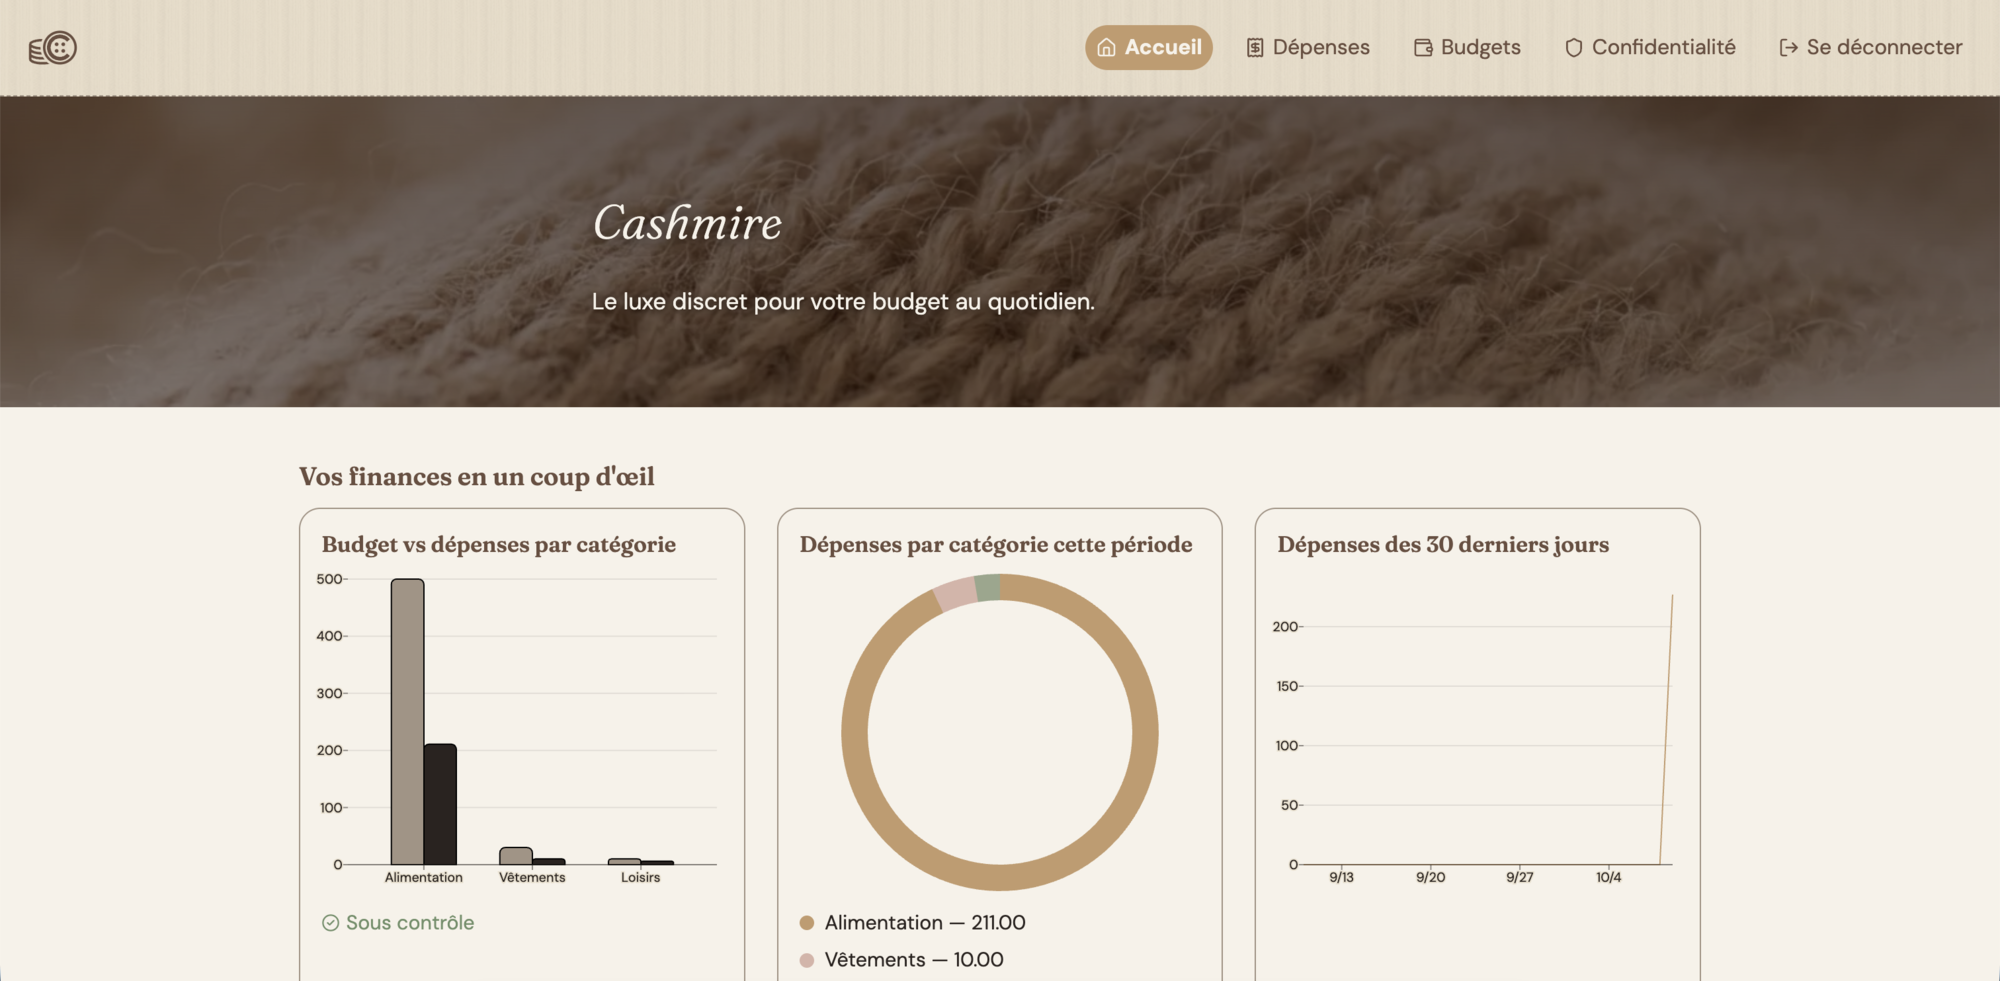
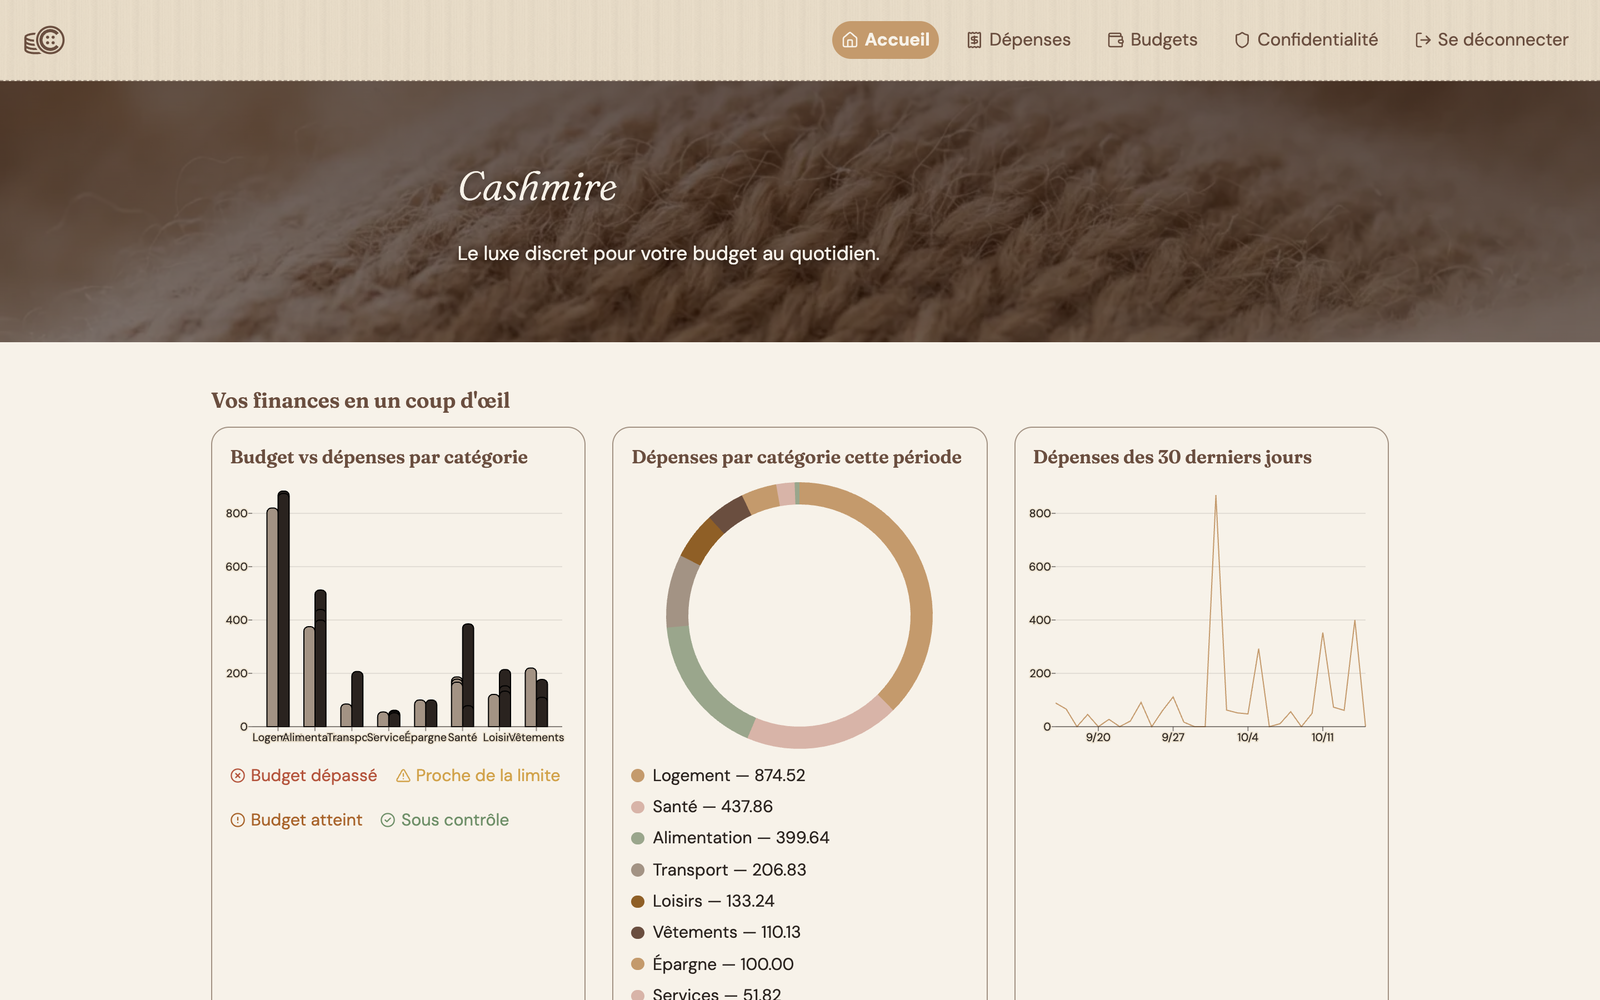
style(landing): rebuild landing page with fresh screenshots

diff --git a/landing-page/index.html b/landing-page/index.html
@@ -10,100 +10,93 @@
 <link rel="apple-touch-icon" href="./favicon.svg" />
 <meta name="theme-color" content="#f7f2e9" />
 <style>
-:root{--bg:#f7f2e9;--surface:#fbf8f1;--text:#2a231f;--muted:#6b5a49;--rule:#d9ccb4;--accent:#8f5f26;--accent-ink:#ffffff;--head:#4a3427;
---sans:Inter,-apple-system,BlinkMacSystemFont,"Segoe UI",Roboto,Helvetica,Arial,sans-serif;--serif:"Iowan Old Style","Palatino Linotype",Palatino,Georgia,serif;color-scheme:light}
+:root{--bg:#f7f2e9;--surface:#efe7d6;--card:#fbf8f1;--text:#2a231f;--muted:#7a6550;--border:#d9ccb4;--heading:#5a3f2f;--accent:#8f5f26;--cta-text:#f7f2e9;--ok:#4f7a49;--wip:#8a6a1f;--glow:rgba(143,95,38,.35);
+--serif:"Fraunces","Iowan Old Style","Palatino Linotype",Georgia,serif;--sans:Inter,-apple-system,BlinkMacSystemFont,"Segoe UI",Roboto,Helvetica,Arial,sans-serif;color-scheme:light}
 *{box-sizing:border-box}html{scroll-behavior:smooth}
-body{margin:0;background:var(--bg);color:var(--text);font:16px/1.65 var(--sans);-webkit-font-smoothing:antialiased}
-a{color:var(--accent)}a:hover{text-underline-offset:3px}
-img{display:block;max-width:100%;height:auto}
-:focus-visible{outline:2px solid var(--accent);outline-offset:3px;border-radius:3px}
-.wrap{max-width:68rem;margin:0 auto;padding:0 24px}
-.bar{border-bottom:1px solid var(--rule)}
-.bar .wrap{display:flex;align-items:center;justify-content:space-between;gap:16px;min-height:60px}
-.brand{display:flex;align-items:center;gap:10px;color:var(--head);font-weight:650;letter-spacing:-.01em;text-decoration:none}
-.brand img{width:26px;height:26px;border-radius:6px}
-.bar nav{display:flex;gap:22px;font-size:.9rem}
-.bar nav a{color:var(--muted);text-decoration:none}.bar nav a:hover{color:var(--head);text-decoration:underline}
-@media(max-width:620px){.bar nav a:not(.back){display:none}}
-.hero{padding:clamp(40px,7vw,88px) 0 clamp(32px,6vw,72px)}
-.hero .wrap{display:grid;gap:clamp(28px,5vw,56px);align-items:center;grid-template-columns:1fr}
-@media(min-width:900px){.hero .wrap{grid-template-columns:minmax(0,.9fr) minmax(0,1.1fr)}}
-.eyebrow{margin:0 0 14px;font-size:.78rem;font-weight:600;letter-spacing:.12em;text-transform:uppercase;color:var(--accent)}
-h1{margin:0;font-family:var(--serif);font-weight:600;font-size:clamp(2.3rem,5.6vw,3.7rem);line-height:1.06;letter-spacing:-.025em;color:var(--head)}
-.lead{margin:20px 0 0;max-width:34rem;font-size:clamp(1.02rem,1.9vw,1.15rem);color:var(--muted)}
-.actions{margin:28px 0 0;display:flex;flex-wrap:wrap;align-items:center;gap:14px 22px}
-.btn{display:inline-block;padding:11px 20px;border-radius:6px;background:var(--accent);color:var(--accent-ink);font-weight:600;font-size:.95rem;text-decoration:none}
+body{margin:0;background:var(--bg);color:var(--text);font-family:var(--sans);line-height:1.65;-webkit-font-smoothing:antialiased}
+a{color:var(--accent)}img{max-width:100%;height:auto;display:block}
+:focus-visible{outline:3px solid var(--accent);outline-offset:3px;border-radius:4px}
+.wrap{max-width:66rem;margin:0 auto;padding:0 20px}
+header.top{padding:18px 0}
+header.top .wrap{display:flex;align-items:center;justify-content:space-between;gap:16px}
+.brand{display:inline-flex;align-items:center;gap:10px;font-family:var(--serif);font-size:1.25rem;font-weight:600;color:var(--heading);text-decoration:none}
+.brand img{width:30px;height:30px;border-radius:7px}
+header.top nav{display:flex;gap:20px;font-size:.92rem}
+header.top nav a{color:var(--muted);text-decoration:none}header.top nav a:hover{color:var(--heading);text-decoration:underline}
+@media(max-width:620px){header.top nav a:not(:last-child){display:none}}
+.hero{padding:clamp(36px,7vw,80px) 0 clamp(24px,5vw,44px);text-align:center}
+.badge{display:inline-flex;align-items:center;gap:8px;padding:6px 14px;border-radius:999px;border:1px solid var(--bc);color:var(--bc);font-size:.82rem;font-weight:600;background:var(--card)}
+.badge i{width:8px;height:8px;border-radius:50%;background:var(--bc)}
+.badge.live i{animation:pulse 1.8s ease-in-out infinite}
+@keyframes pulse{50%{opacity:.3}}
+h1{margin:18px auto 0;max-width:20ch;font-family:var(--serif);font-weight:600;font-size:clamp(2.3rem,7vw,3.9rem);line-height:1.08;letter-spacing:-.02em;color:var(--heading)}
+h1 em{font-style:normal;color:var(--accent)}
+.lead{margin:20px auto 0;max-width:40rem;font-size:clamp(1.02rem,2.3vw,1.18rem);color:var(--muted)}
+.cta-row{margin-top:28px;display:flex;flex-wrap:wrap;gap:12px;justify-content:center}
+.btn{display:inline-block;padding:12px 24px;border-radius:999px;font-weight:600;font-size:.98rem;text-decoration:none;border:1px solid var(--accent)}
+.btn.primary{background:var(--accent);color:var(--cta-text)}
+.btn.ghost{background:transparent;color:var(--heading);border-color:var(--border)}
 .btn:hover{filter:brightness(1.08)}
-.link{font-weight:600;font-size:.95rem}
-.shot{margin:0;border:1px solid var(--rule);border-radius:8px;overflow:hidden;background:var(--surface)}
-section.s{padding:clamp(36px,6vw,68px) 0;border-top:1px solid var(--rule)}
-.cols{display:grid;gap:clamp(24px,5vw,64px);grid-template-columns:1fr}
-@media(min-width:820px){.cols{grid-template-columns:minmax(0,.7fr) minmax(0,1.3fr)}}
-h2{margin:0;font-family:var(--serif);font-weight:600;font-size:clamp(1.4rem,3vw,1.85rem);line-height:1.2;letter-spacing:-.015em;color:var(--head)}
-.prose{margin:0;color:var(--muted);max-width:38rem}
-.prose+.prose{margin-top:14px}
-dl{margin:0;display:grid;grid-template-columns:minmax(7rem,.35fr) 1fr;gap:0}
-dt,dd{margin:0;padding:11px 0;border-top:1px solid var(--rule)}
-dt{font-size:.85rem;color:var(--muted)}dd{font-size:.97rem}
-dl>:nth-last-child(-n+2){border-bottom:1px solid var(--rule)}
-ol.items,ul.items{list-style:none;margin:0;padding:0;display:grid;gap:0 clamp(24px,5vw,56px);grid-template-columns:1fr}
-@media(min-width:760px){ol.items,ul.items{grid-template-columns:1fr 1fr}}
-.items li{padding:18px 0;border-top:1px solid var(--rule)}
-.items h3{margin:0;font-size:1.02rem;font-weight:650;color:var(--head);letter-spacing:-.005em}
-.items p{margin:6px 0 0;color:var(--muted);font-size:.96rem}
-.items .n{display:block;margin-bottom:4px;font-size:.78rem;font-weight:600;color:var(--accent);font-variant-numeric:tabular-nums}
-@media(min-width:760px){.gallery{grid-template-columns:1fr 1fr}.gallery figure:last-child{grid-column:1}}
-.gallery{display:grid;gap:22px;grid-template-columns:1fr}
-.gallery figure{margin:0}.gallery img{border:1px solid var(--rule);border-radius:8px;background:var(--surface)}
-.gallery img[src$="mobile.jpg"]{max-width:300px}
+.shot{margin-top:clamp(28px,5vw,48px);border:1px solid var(--border);border-radius:18px;overflow:hidden;box-shadow:0 24px 60px -28px var(--glow);background:var(--card);text-align:left}
+.shot .bar{display:flex;gap:6px;padding:10px 14px;border-bottom:1px solid var(--border);background:var(--surface)}
+.shot .bar i{width:10px;height:10px;border-radius:50%;background:var(--border)}
+section{padding:clamp(32px,6vw,64px) 0}
+h2{margin:0 0 10px;font-family:var(--serif);font-weight:600;font-size:clamp(1.55rem,4.2vw,2.1rem);color:var(--heading);line-height:1.2}
+.sub{margin:0 0 28px;color:var(--muted);max-width:42rem}
+.grid{display:grid;gap:16px;grid-template-columns:repeat(auto-fit,minmax(240px,1fr))}
+.card{background:var(--card);border:1px solid var(--border);border-radius:16px;padding:22px}
+.card h3{margin:0 0 6px;font-family:var(--serif);font-size:1.1rem;color:var(--heading)}
+.card p{margin:0;color:var(--muted);font-size:.96rem}
+.card .k{margin-top:10px;font-size:.84rem;color:var(--accent)}
+.band{background:var(--surface);border-block:1px solid var(--border)}
+.gallery{display:grid;gap:18px;grid-template-columns:repeat(auto-fit,minmax(300px,1fr));align-items:start}
+.gallery figure{margin:0}
+.gallery img{border:1px solid var(--border);border-radius:14px;background:var(--card)}
 .gallery figcaption{margin-top:8px;font-size:.88rem;color:var(--muted)}
-table{width:100%;border-collapse:collapse;font-size:.95rem}
-th,td{text-align:left;padding:11px 12px 11px 0;border-top:1px solid var(--rule);vertical-align:top}
-th{font-weight:600;color:var(--muted);font-size:.8rem;letter-spacing:.04em;text-transform:uppercase}
-tr:last-child td{border-bottom:1px solid var(--rule)}
-td.num{font-variant-numeric:tabular-nums;white-space:nowrap}
-.st{font-weight:600}
-.st.ok{color:#2f6b3b}.st.warn{color:#8a5a00}.st.full{color:#a4501a}.st.over{color:#a33a2a}
-footer{border-top:1px solid var(--rule);padding:24px 0 36px;font-size:.88rem;color:var(--muted)}
-footer .wrap{display:flex;flex-wrap:wrap;justify-content:space-between;gap:8px 24px}
-@media(prefers-reduced-motion:reduce){html{scroll-behavior:auto}}
+.gallery .tall img{max-width:260px;margin:0 auto}.gallery .tall figcaption{text-align:center}
+.status{display:grid;gap:12px;padding:0;margin:0;list-style:none;max-width:42rem}
+.status li{display:flex;gap:12px;align-items:baseline;padding:14px 18px;background:var(--card);border:1px solid var(--border);border-radius:14px}
+.status b{flex:none;min-width:8.5rem;font-size:.78rem;letter-spacing:.04em;text-transform:uppercase;padding:2px 10px;border-radius:999px;border:1px solid currentColor;text-align:center}
+.st-ok{color:var(--ok)}.st-warn{color:var(--wip)}.st-full{color:#a4501a}.st-over{color:#a33a2a}.st-todo{color:var(--muted)}
+.status span{color:var(--text)}
+.steps{counter-reset:s;display:grid;gap:16px;grid-template-columns:repeat(auto-fit,minmax(220px,1fr));padding:0;margin:0;list-style:none}
+.steps li{counter-increment:s;background:var(--card);border:1px solid var(--border);border-radius:16px;padding:22px}
+.steps li::before{content:counter(s);display:inline-grid;place-items:center;width:30px;height:30px;margin-bottom:12px;border-radius:50%;background:var(--accent);color:var(--cta-text);font-weight:700;font-size:.9rem}
+.steps h3{margin:0 0 6px;font-family:var(--serif);font-size:1.1rem;color:var(--heading)}.steps p{margin:0;color:var(--muted);font-size:.96rem}
+.stack{display:flex;flex-wrap:wrap;gap:10px;padding:0;margin:0;list-style:none}
+.stack li{padding:7px 16px;border:1px solid var(--border);border-radius:999px;background:var(--card);font-size:.9rem}
+.final{text-align:center}
+footer{padding:28px 0 40px;border-top:1px solid var(--border);font-size:.85rem;color:var(--muted)}
+footer .wrap{display:flex;flex-wrap:wrap;justify-content:space-between;gap:10px}
+@media(prefers-reduced-motion:reduce){html{scroll-behavior:auto}.badge i{animation:none}}
 </style>
 </head>
 <body>
-<header class="bar"><div class="wrap"><a class="brand" href="./"><img src="./favicon.svg" alt="" width="26" height="26" />Cashmire</a><nav aria-label="Navigation"><a href="#projet">Le projet</a><a href="#fonctions">Fonctions</a><a href="#budgets">Budgets</a><a href="#technique">Technique</a><a class="back" href="https://vlldnt.fr/">← vlldnt.fr</a></nav></div></header>
+<header class="top"><div class="wrap"><a class="brand" href="./"><img src="./favicon.svg" alt="" width="30" height="30" />Cashmire</a><nav aria-label="Navigation principale"><a href="#fonctions">Fonctions</a><a href="#apercu">Aperçu</a><a href="#budgets">Budgets</a><a href="#technique">Technique</a><a href="https://vlldnt.fr/">← vlldnt.fr</a></nav></div></header>
 <main>
-<section class="hero"><div class="wrap"><div><p class="eyebrow">Suivi de dépenses et de budgets</p><h1>Cashmire</h1><p class="lead">Notez vos dépenses, fixez un budget par catégorie et voyez où vous en êtes. Une interface sobre, des montants exacts au centime.</p><div class="actions"><a class="btn" href="https://cashmire.vlldnt.fr" rel="noopener">Ouvrir l&#x27;application</a><a class="link" href="https://github.com/ClaymeCall/holbertonschool-cashmire" rel="noopener">Code source</a></div></div>
-<figure class="shot"><img src="./portfolio.png" width="2000" height="982" alt="Tableau de bord de Cashmire : budget contre dépensé, répartition par catégorie et tendance sur 30 jours." /></figure></div></section>
-<section class="s" id="projet"><div class="wrap cols"><div><h2>Le projet</h2></div><div>
-<p class="prose">Cashmire se concentre sur l&#x27;essentiel : savoir ce que l&#x27;on dépense et si l&#x27;on tient ses objectifs. Un compte avec une adresse e-mail et un mot de passe suffit ; douze catégories par défaut sont créées à l&#x27;inscription.</p>
-<p class="prose">Projet réalisé en équipe de trois à Holberton School, en quatre jours : API REST, interface monopage et déploiement conteneurisé.</p>
-<dl style="margin-top:26px"><dt>Contexte</dt><dd>Projet d'équipe Holberton School (3 personnes, 4 jours)</dd><dt>Ma part</dt><dd>Budgets, architecture, hébergement</dd><dt>Stack</dt><dd>Django · SvelteKit · PostgreSQL</dd><dt>Accès</dt><dd><a href="https://cashmire.vlldnt.fr">cashmire.vlldnt.fr</a></dd></dl></div></div></section>
-<section class="s" id="fonctions"><div class="wrap cols"><div><h2>Fonctions</h2></div><div>
-<ul class="items">
-<li><span class="n">01</span><h3>Dépenses</h3><p>Ajout, modification et filtre par catégorie et par date.</p></li>
-<li><span class="n">02</span><h3>Budgets par période</h3><p>Un montant, une catégorie, une période ; la consommation est calculée automatiquement.</p></li>
-<li><span class="n">03</span><h3>Tableau de bord</h3><p>Budget contre dépensé, répartition du mois et tendance sur 30 jours.</p></li>
-<li><span class="n">04</span><h3>Seuils d&#x27;alerte</h3><p>Prévenu avant la limite : 80 % par défaut, réglable pour chaque budget.</p></li>
-<li><span class="n">05</span><h3>Données privées</h3><p>Connexion par session sécurisée ; les catégories et les chiffres ne sont visibles que de leur propriétaire.</p></li>
-<li><span class="n">06</span><h3>Montants exacts</h3><p>Calculs en décimal exact, jamais en flottant : aucune erreur d&#x27;arrondi.</p></li>
-</ul>
-</div></div></section>
-<section class="s" id="budgets"><div class="wrap cols"><div><h2>Quatre statuts</h2><p class="prose" style="margin-top:12px">Le statut de chaque budget est calculé côté serveur. La couleur n&#x27;est jamais seule : un libellé l&#x27;accompagne.</p></div><div>
-<table><thead><tr><th scope="col">Catégorie</th><th scope="col">Dépensé / budget</th><th scope="col">Statut</th></tr></thead><tbody>
-<tr><td>Transport</td><td class="num">42,00 € / 150,00 €</td><td class="st ok">Sous contrôle</td></tr>
-<tr><td>Alimentation</td><td class="num">415,50 € / 500,00 €</td><td class="st warn">Proche de la limite</td></tr>
-<tr><td>Loisirs</td><td class="num">80,00 € / 80,00 €</td><td class="st full">Budget atteint</td></tr>
-<tr><td>Vêtements</td><td class="num">130,00 € / 100,00 €</td><td class="st over">Budget dépassé</td></tr>
-</tbody></table>
-</div></div></section>
-<section class="s" id="technique"><div class="wrap cols"><div><h2>Technique</h2></div><div>
-<ul class="items">
-<li><h3>Back</h3><p>Django 5 · Django REST Framework · PostgreSQL 16</p></li>
-<li><h3>Front</h3><p>SvelteKit · Svelte 5 · LayerChart</p></li>
-<li><h3>Sécurité</h3><p>Authentification par session + CSRF</p></li>
-<li><h3>Livraison</h3><p>Docker Compose · documentation OpenAPI</p></li>
-</ul>
-</div></div></section>
+<section class="hero"><div class="wrap"><p class="badge live" style="--bc:var(--wip)"><i></i>Projet Holberton School</p><h1>Le luxe discret pour votre <em>budget</em></h1><p class="lead">Notez vos dépenses, fixez des budgets par catégorie et voyez en un coup d&#x27;œil où vous en êtes. Simple, sobre, précis au centime.</p><div class="cta-row"><a class="btn primary" href="https://cashmire.vlldnt.fr" rel="noopener">Ouvrir l&#x27;application</a><a class="btn ghost" href="https://github.com/ClaymeCall/holbertonschool-cashmire" rel="noopener">Code source</a></div>
+<div class="shot"><div class="bar"><i></i><i></i><i></i></div><img src="./portfolio.png" width="1600" height="986" alt="Tableau de bord de Cashmire : budget contre dépensé par catégorie, répartition de la période et dépenses des 30 derniers jours." /></div></div></section>
+<section id="fonctions"><div class="wrap"><h2>Tout ce qu&#x27;il faut, rien de superflu</h2><p class="sub">Cashmire se concentre sur l&#x27;essentiel : savoir ce que l&#x27;on dépense et si l&#x27;on tient ses objectifs.</p>
+<div class="grid"><article class="card"><h3>Dépenses</h3><p>Ajout, modification et filtre par catégorie et par date.</p></article><article class="card"><h3>Budgets par période</h3><p>Un montant, une catégorie, une période : la consommation est calculée automatiquement.</p></article><article class="card"><h3>Tableau de bord</h3><p>Budget contre dépensé, répartition de la période et tendance sur 30 jours.</p></article><article class="card"><h3>Seuils d&#x27;alerte</h3><p>Prévenu avant la limite : 80 % par défaut, réglable pour chaque budget.</p></article><article class="card"><h3>Données privées</h3><p>Connexion par session sécurisée : catégories et chiffres ne sont visibles que de leur propriétaire.</p></article><article class="card"><h3>Précis au centime</h3><p>Calculs en décimal exact, jamais en flottant : aucune erreur d&#x27;arrondi.</p></article></div>
+</div></section>
+<section class="band" id="apercu"><div class="wrap"><h2>Aperçu</h2><p class="sub">Captures de l&#x27;application avec le compte de démonstration.</p>
+<div class="gallery">
+<figure><img src="./shot-budgets.jpg" loading="lazy" alt="Liste des budgets : chaque carte indique le montant dépensé, le restant, un pourcentage et un statut." /><figcaption>Budgets, avec leur statut calculé.</figcaption></figure>
+<figure><img src="./shot-depenses.jpg" loading="lazy" alt="Liste des dépenses : montant, catégorie, date et libellé." /><figcaption>Dépenses, par date.</figcaption></figure>
+<figure><img src="./shot-connexion.jpg" loading="lazy" alt="Écran de connexion de Cashmire." /><figcaption>Connexion.</figcaption></figure>
+<figure class="tall"><img src="./shot-mobile.jpg" loading="lazy" alt="Cashmire sur téléphone." /><figcaption>Version mobile.</figcaption></figure>
+</div>
+</div></section>
+<section id="budgets"><div class="wrap"><h2>Quatre statuts, toujours lisibles</h2><p class="sub">Chaque budget affiche un statut calculé côté serveur. La couleur n&#x27;est jamais seule : un libellé l&#x27;accompagne.</p>
+<ul class="status"><li><b class="st-ok">Sous contrôle</b><span>Transport — 42,00 € sur 150,00 €</span></li><li><b class="st-warn">Proche de la limite</b><span>Alimentation — 415,50 € sur 500,00 €</span></li><li><b class="st-full">Budget atteint</b><span>Loisirs — 80,00 € sur 80,00 €</span></li><li><b class="st-over">Budget dépassé</b><span>Vêtements — 130,00 € sur 100,00 €</span></li></ul>
+</div></section>
+<section id="etapes"><div class="wrap"><h2>Prêt en trois étapes</h2><p class="sub">Un compte avec un e-mail et un mot de passe, et c&#x27;est parti.</p>
+<ol class="steps"><li><h3>Créez votre compte</h3><p>12 catégories par défaut sont ajoutées automatiquement.</p></li><li><h3>Fixez vos budgets</h3><p>Choisissez une catégorie, un montant et une période.</p></li><li><h3>Suivez vos dépenses</h3><p>Chaque dépense met à jour vos budgets et vos graphiques.</p></li></ol>
+</div></section>
+<section class="band" id="technique"><div class="wrap"><h2>Sous le capot</h2><p class="sub">Projet réalisé en équipe de trois à Holberton School, en quatre jours : API REST, interface monopage et déploiement conteneurisé.</p>
+<ul class="stack" aria-label="Technologies utilisées"><li>Django 5</li><li>Django REST Framework</li><li>PostgreSQL 16</li><li>SvelteKit · Svelte 5</li><li>LayerChart</li><li>Docker Compose</li><li>Authentification par session + CSRF</li><li>OpenAPI</li></ul>
+</div></section>
+<section class="final"><div class="wrap"><h2>Gardez la main sur votre budget</h2><p class="sub" style="margin-inline:auto">Essayez Cashmire ou parcourez le code source.</p><div class="cta-row"><a class="btn primary" href="https://cashmire.vlldnt.fr" rel="noopener">Ouvrir l&#x27;application</a><a class="btn ghost" href="https://github.com/ClaymeCall/holbertonschool-cashmire" rel="noopener">Voir le code</a></div></div></section>
 </main>
 <footer><div class="wrap"><span>© Cashmire · Projet Holberton School</span><a href="https://vlldnt.fr/">← Retour au portfolio</a></div></footer>
 </body>
